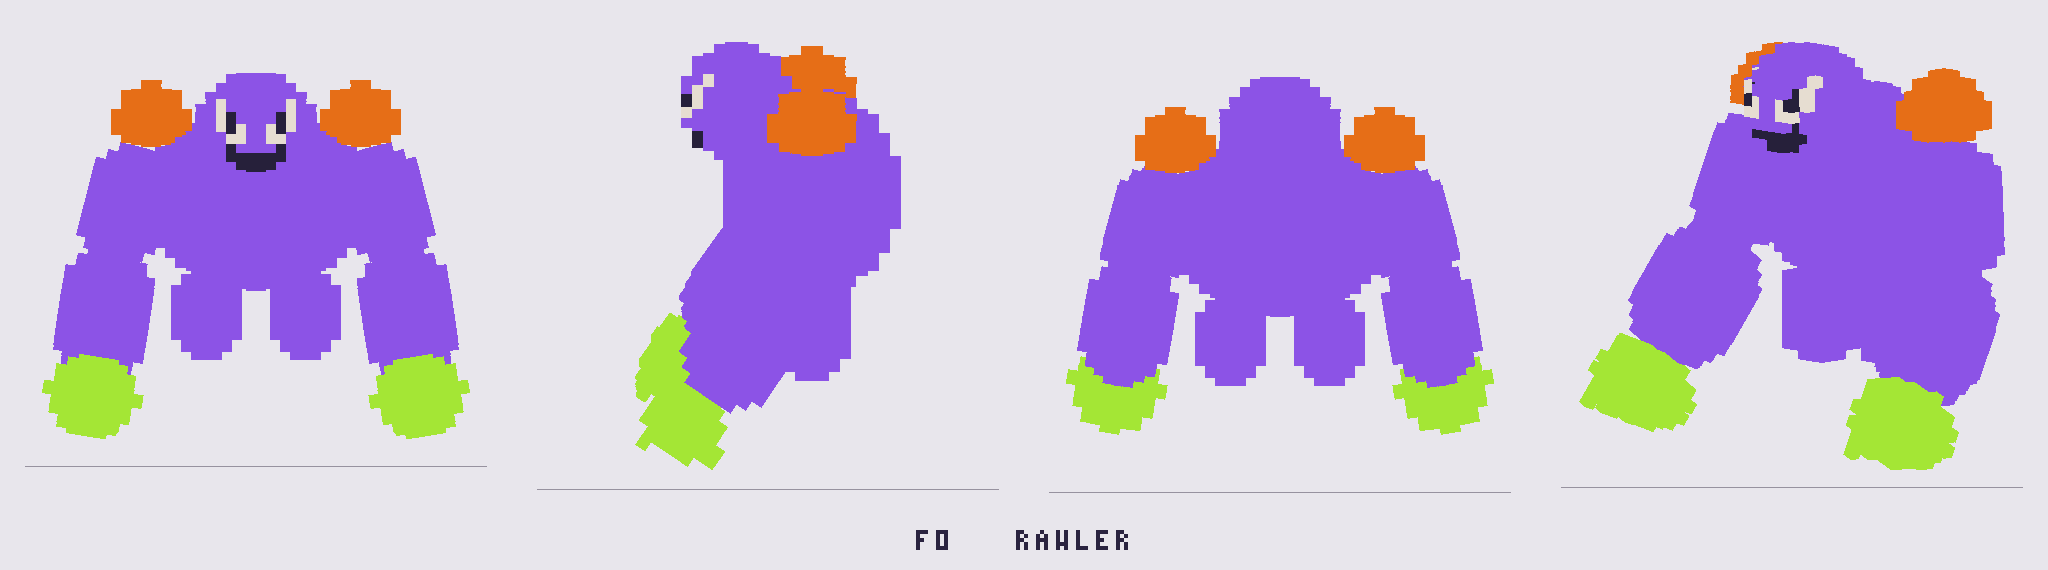
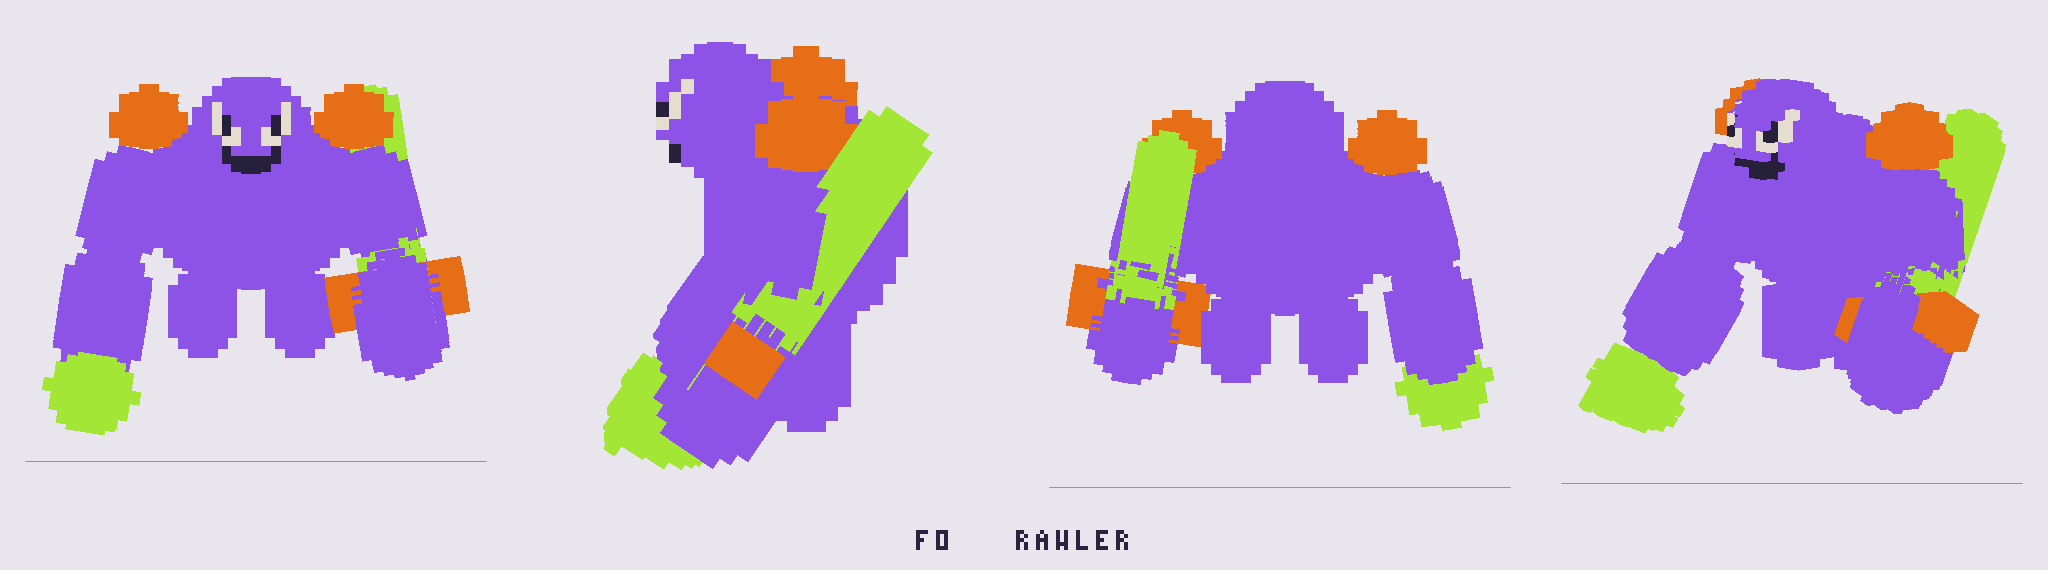
GAME-10i: the F07 Brawler gets its lime foam sword in the right hand
The Brawler's greybox fists are out (CONTENT-PLAN 3.4, Paul chose the
sword in PLAN.md section 14). The right fist becomes a 1.5 m rounded
lime blade, capsule, parented to foreArmR so it moves with the arm; a
lime hilt and an orange cross guard ride on it as children, so they
break away when the blade does. The sword is a breakable weapon part
with its own health, the way the Crawler's gun is.

A new swing attack takes the place of the right-hand punch: windup
0.8 s, strike 0.25 s, damage 16, needs the sword. Its reach is pinned
per attack (range 2.4 in data/foamers.json, measured with the
attackRange() pin the spec already carries), so it reaches 0.7 m
beyond the punch while the fallback still reads the spec's
attackRange 1.7. With the sword gone, chooseAttack falls to the
left-fist punch, whose needs are now foreArmL only. The leap slam,
its crouch telegraph and the shockwave ring are untouched.

Tests (tests/foamers/brawler.test.ts): the rig carries the sword in
the right forearm and no right fist; the sword takes dart damage and
breaks off with hilt and guard; a player at 2.2 m, inside the swing
and outside the old punch's reach, is hit by a swing; with the sword
gone the next attack is the left-fist punch. The GAME-10f leap and
shockwave tests pass unchanged.

diff --git a/tests/foamers/brawler.test.ts b/tests/foamers/brawler.test.ts
@@ -203,3 +203,93 @@ describe("the F07 leap slam (GAME-10f stage 2)", () => {
     expect(g.state, "one arm gone still leaps").toBe("leaping");
   });
 });
+
+describe("the F07 foam sword (GAME-10i stage 1)", () => {
+  /** Record the attack id of every bonk this Foamer lands.
+  *  (The harness does not wire the default bonk, which is the player
+  *  damage; the recorder stands for it, the way the Roamer tests do.) */
+  function bonks(r: Rig, f: Foamer): string[] {
+    const ids: string[] = [];
+    r.foamers.onBonk = (foamer, attack) => {
+      if (foamer === f) ids.push(attack);
+    };
+    return ids;
+  }
+
+  /** Fire one standard dart at a part the way the darts do it: a small
+  *  probe collider on the part's body, so the hit lands on it. The
+  *  trawler wall test drives the weak point this way. */
+  function dartAt(r: Rig, f: Foamer, id: string): void {
+    const part = f.parts.get(id)!;
+    const probe = r.world.createCollider(
+      RAPIER.ColliderDesc.cuboid(0.1, 0.1, 0.1).setTranslation(0.2, 0.2, 0.2),
+      part.body,
+    );
+    f.health = f.maxHealth;
+    r.darts.onHit({
+      point: part.voxelToWorld(new THREE.Vector3(3, 15, 3)),
+      normal: new THREE.Vector3(-1, 0, 0),
+      direction: new THREE.Vector3(1, 0, 0),
+      speed: 25,
+      type: "standard",
+      collider: probe,
+      material: null,
+      shot: null,
+    });
+  }
+
+  it("1. the sword replaces the right fist, and the left fist stays", () => {
+    const r = rig();
+    const player = new THREE.Vector3(0, 1.6, 0);
+    const f = brawler(r, 8, player);
+    const sword = f.parts.get("sword");
+    expect(sword, "the sword part").toBeTruthy();
+    expect(sword!.spec.kind, "it is a weapon part").toBe("weapon");
+    expect(sword!.spec.parent, "held in the right hand").toBe("foreArmR");
+    expect(f.parts.has("fistR"), "no right fist any more").toBe(false);
+    expect(f.parts.has("fistL"), "the left fist stays").toBe(true);
+  });
+
+  it("2. the sword takes dart damage and breaks off", () => {
+    const r = rig();
+    const player = new THREE.Vector3(0, 1.6, 0);
+    const f = brawler(r, 8, player);
+    const before = f.health;
+    for (let i = 0; i < 20 && f.parts.has("sword"); i++) dartAt(r, f, "sword");
+    expect(f.parts.has("sword"), "chipped away").toBe(false);
+    // The hilt and the cross guard fell off with it (they are its children).
+    expect(f.parts.has("swordHilt")).toBe(false);
+    expect(f.parts.has("swordGuard")).toBe(false);
+    expect(f.health, "the breaks hurt too").toBeLessThan(before);
+    // The sword is a weapon part, so it has its own health, the way the
+    // Crawler's gun does, and the Brawler survives its loss.
+    const g = brawler(r, 8, player);
+    const blade = g.parts.get("sword")!;
+    expect(blade.hp, "its own health, not the body's").toBeGreaterThan(1);
+    expect(blade.hp).toBeLessThan(g.maxHealth);
+  });
+
+  it("3. with the sword it swings, and reaches farther than the punch", () => {
+    const r = rig();
+    // 2.2 metres: inside the swing's reach (range 2.4 + 0.3), outside the
+    // old punch's (attackRange 1.7 + 0.3). It is under the leap minimum,
+    // so the leap has no claim on it.
+    const player = new THREE.Vector3(0, 1.6, 0);
+    const f = brawler(r, 2.2, player);
+    const ids = bonks(r, f);
+    run(r, player, () => ids.length > 0, 60 * 8);
+    expect(ids[0], "one swing lands").toBe("swing");
+  });
+
+  it("4. with the sword gone it punches with the left fist", () => {
+    const r = rig();
+    const player = new THREE.Vector3(0, 1.6, 0);
+    const f = brawler(r, 1.5, player);
+    f.parts.delete("sword");
+    f.parts.delete("swordHilt");
+    f.parts.delete("swordGuard");
+    const ids = bonks(r, f);
+    run(r, player, () => ids.length > 0, 60 * 8);
+    expect(ids[0], "the left-fist punch steps in").toBe("punch");
+  });
+});

diff --git a/src/foamers/rig-states.ts b/src/foamers/rig-states.ts
@@ -92,6 +92,13 @@ export function windupMotion(rig: RigSpec, attack: string, k: number, out: RigMo
     out.pitch = (w["pitch"] ?? 0) * DEG * e;
     out.turn = (w["turn"] ?? 0) * DEG * e; // the body turns a little away
     out.y = 0.03 * e;
+  } else if (attack === "swing") {
+    // GAME-10i: the Brawler draws the sword back (the arm swings it out to
+    // the right), the body turning with it, so it ends at the strike's
+    // start pose, no snap at the handover.
+    if (rig.parts.some((p) => p.id === "armR")) out.rot.set("armR", [0.2 * e, 0, 1.4 * e]);
+    out.turn = 0.25 * e;
+    out.pitch = 0.1 * e;
   }
 }
 
@@ -131,6 +138,16 @@ export function strikeMotion(rig: RigSpec, attack: string, k: number, out: RigMo
     out.pitch = (s["pitch"] ?? 0) * DEG * Math.sin(k * Math.PI) + ((w["pitch"] ?? 0) * (1 - wp)) * DEG;
     out.turn = ((w["turn"] ?? 0) + ((s["turn"] ?? 0) - (w["turn"] ?? 0)) * wp) * DEG; // turns through the throw
     out.y = 0.03 * Math.sin(k * Math.PI);
+  } else if (attack === "swing") {
+    // GAME-10i: the wide horizontal strike: the drawn-back arm swings
+    // across the body, side to side, fast for the first 70%, then the
+    // follow-through settles to rest, so the recover starts clean.
+    const u = k < 0.7 ? (k / 0.7) ** 1.6 : 1;
+    const back = k < 0.7 ? 1 : 1 - (k - 0.7) / 0.3;
+    if (rig.parts.some((p) => p.id === "armR"))
+      out.rot.set("armR", [(0.2 - 0.5 * u) * back, 0, (1.4 - 2.7 * u) * back]);
+    out.turn = (0.25 - 0.45 * u) * back;
+    out.pitch = (0.1 - 0.25 * u) * back;
   }
 }
 
